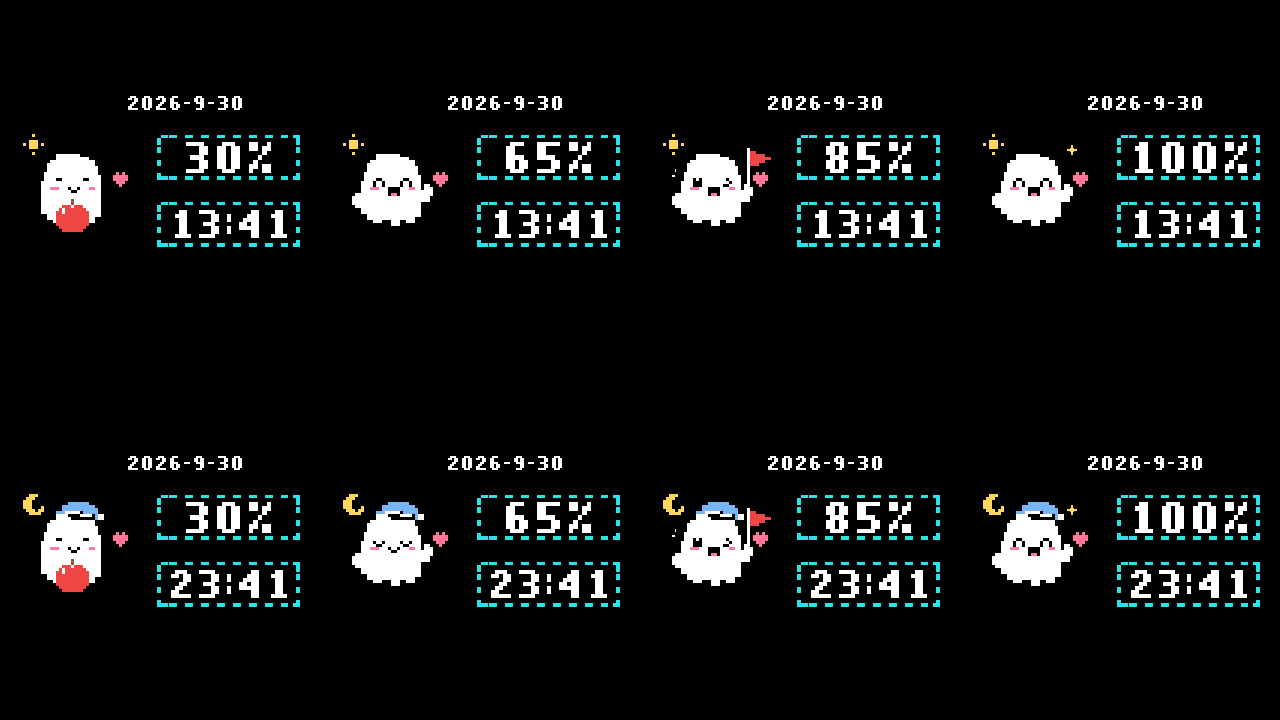
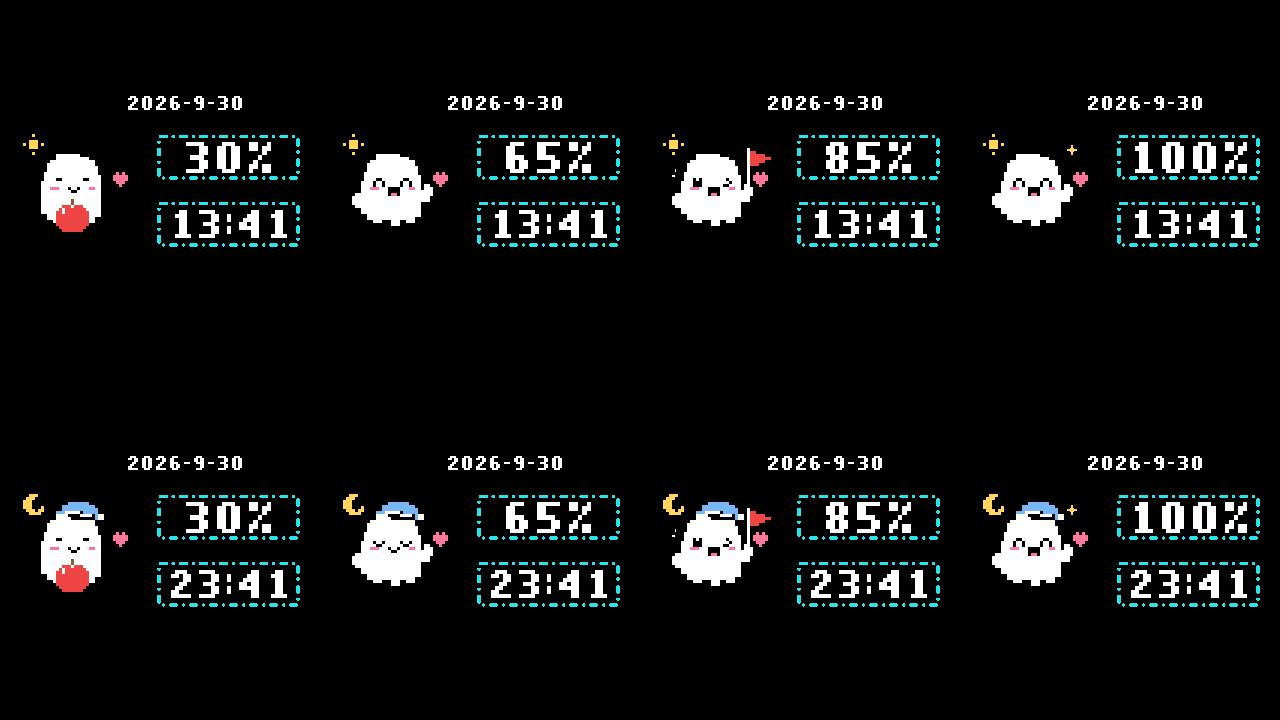
Add flowing cyan dash-dot frames and verify native r11

diff --git a/index.html b/index.html
@@ -28,16 +28,44 @@ function textPixels(text,box,unit){
  let x=box.x+(box.w-width)/2,y=box.y+(box.h-unit*7)/2,out='';
  for(const ch of text){font[ch].forEach((row,dy)=>[...row].forEach((p,dx)=>{if(p==='1')out+=rect(x+dx*unit,y+dy*unit,unit,unit);}));x+=(font[ch][0].length+2)*unit;}return out;
 }
-function pixelFrame(b){
- const t=14,c=color.cyan;let s='';
- // Thick square pixel dashes; no smooth outlines or lighting effects.
- for(const [x,y,sx,sy]of[[b.x,b.y,1,1],[b.x+b.w-t,b.y,-1,1],[b.x,b.y+b.h-t,1,-1],[b.x+b.w-t,b.y+b.h-t,-1,-1]])s+=rect(x+sx*t,y,t*2,t,c)+rect(x,y+sy*t,t,t*2,c);
- for(let x=b.x+48;x<b.x+b.w-48;x+=64){const w=Math.min(32,b.x+b.w-48-x);s+=rect(x,b.y,w,t,c)+rect(x,b.y+b.h-t,w,t,c);}
- for(let y=b.y+48;y<b.y+b.h-48;y+=52){const h=Math.min(26,b.y+b.h-48-y);s+=rect(b.x,y,t,h,c)+rect(b.x+b.w-t,y,t,h,c);}return s;
+function pixelFrame(b,seconds=0,reduced=false){
+ const grid=2,radius=7,width=b.w-radius*2,height=b.h-radius*2,length=2*(width+height);
+ const cycle=length/grid,phase=reduced?0:((Math.floor(seconds*10)%cycle)+cycle)%cycle;
+ const count=Math.round(length/80),period=length/count,rows=new Map();
+ // Dash + dot travel clockwise on one closed perimeter. Rasterized caps keep
+ // the reference's softer shape on an explicit pixel grid, including corners.
+ function point(distance){
+  let d=((distance%length)+length)%length,x=b.x+radius,y=b.y+radius;
+  if(d<width)return[x+d,y];d-=width;
+  if(d<height)return[x+width,y+d];d-=height;
+  if(d<width)return[x+width-d,y+height];d-=width;
+  return[x,y+height-d];
+ }
+ function stamp(distance){
+  const [cx,cy]=point(distance);
+  const minX=Math.max(0,Math.floor((cx-radius-b.x)/grid)),maxX=Math.min(b.w/grid-1,Math.floor((cx+radius-b.x)/grid));
+  const minY=Math.max(0,Math.floor((cy-radius-b.y)/grid)),maxY=Math.min(b.h/grid-1,Math.floor((cy+radius-b.y)/grid));
+  for(let j=minY;j<=maxY;j++)for(let i=minX;i<=maxX;i++){
+   if((b.x+i*grid+grid/2-cx)**2+(b.y+j*grid+grid/2-cy)**2>radius**2)continue;
+   if(!rows.has(j))rows.set(j,new Set());rows.get(j).add(i);
+  }
+ }
+ for(let i=0;i<count;i++){
+  const start=i*period+phase*grid;
+  for(let d=radius;d<=36-radius;d+=grid)stamp(start+d);
+  stamp(start+57);
+ }
+ let s=`<g data-component="frame" data-pattern="dash-dot" data-phase="${phase}">`;
+ for(const [j,cells]of [...rows].sort((a,b)=>a[0]-b[0])){
+  const columns=[...cells].sort((a,b)=>a-b);let start=columns[0],end=start;
+  for(const i of columns.slice(1)){if(i===end+1){end=i;continue;}s+=rect(b.x+start*grid,b.y+j*grid,(end-start+1)*grid,grid,color.cyan);start=end=i;}
+  s+=rect(b.x+start*grid,b.y+j*grid,(end-start+1)*grid,grid,color.cyan);
+ }
+ return s+'</g>';
 }
 function dateComponent(date){return `<g data-component="date">${textPixels(date,layout.date,8)}</g>`;}
-function percentComponent(progress){return `<g data-component="percent">${pixelFrame(layout.percent)}${textPixels(`${progress===null?'--':progress}%`,layout.percent,18)}</g>`;}
-function timeComponent(time){return `<g data-component="time">${pixelFrame(layout.time)}${textPixels(time,layout.time,16)}</g>`;}
+function percentComponent(progress,seconds=0,reduced=false){return `<g data-component="percent">${pixelFrame(layout.percent,seconds,reduced)}<g data-component="digits">${textPixels(`${progress===null?'--':progress}%`,layout.percent,18)}</g></g>`;}
+function timeComponent(time,seconds=0,reduced=false){return `<g data-component="time">${pixelFrame(layout.time,seconds,reduced)}<g data-component="digits">${textPixels(time,layout.time,16)}</g></g>`;}
 function progressState(p){return p===100?'celebrating':p>=80?'flag':p>=50?'floating':'apple';}
 function timeState(time){const h=Number(time.slice(0,2));return h>=20||h<7?'night':'day';}
 function heart(x,y,seconds=0,reduced=false){
@@ -106,7 +134,7 @@ function normalizeState(next,base=state){
 function resolveState(input,now){return{progress:input.progress,date:input.date??`${now.getFullYear()}-${now.getMonth()+1}-${now.getDate()}`,time:input.time??`${String(now.getHours()).padStart(2,'0')}:${String(now.getMinutes()).padStart(2,'0')}`};}
 function renderTerminal(input,seconds=0,reduced=false,now=new Date()){
  const s=resolveState(normalizeState(input),now);
- return rect(0,0,1280,720,color.background)+dateComponent(s.date)+ghostComponent(s.progress,s.time,seconds,reduced)+daylightComponent(s.time,seconds,reduced)+percentComponent(s.progress)+timeComponent(s.time);
+ return rect(0,0,1280,720,color.background)+dateComponent(s.date)+ghostComponent(s.progress,s.time,seconds,reduced)+daylightComponent(s.time,seconds,reduced)+percentComponent(s.progress,seconds,reduced)+timeComponent(s.time,seconds,reduced);
 }
 // One local adapter seam; no credentials, network requests or quota inference.
 window.pixelTerminal={setState(next){const accepted=normalizeState(next);Object.assign(state,accepted);},getState(){return{...state};},progressState,timeState,render:renderTerminal};

diff --git a/native/PixelTerminal.swift b/native/PixelTerminal.swift
@@ -2,7 +2,7 @@ import AppKit
 import WebKit
 import CryptoKit
 
-let buildID = "2026-10-02-native-r10"
+let buildID = "2026-10-02-native-r11"
 func sha256(_ url: URL) -> String { ((try? Data(contentsOf: url)).map { SHA256.hash(data: $0).map { String(format: "%02x", $0) }.joined() }) ?? "unavailable" }
 final class CompanionWindow: NSWindow { override var canBecomeKey: Bool { true }; override var canBecomeMain: Bool { true } }
 

diff --git a/README.md b/README.md
@@ -2,7 +2,7 @@
 
 **A quiet pixel companion for your Mac — a tiny ghost, your Codex quota, and the time.**
 
-Black background. Crisp pixels. A fat red apple, a softly beating pink heart, and a little sun with rotating rays. Made to sit quietly on a small desk display.
+Black background. Crisp pixels. A fat red apple, a softly beating pink heart, and a little sun with rotating rays. Thick cyan dash-dot frames drift quietly clockwise around the numbers. Made to sit quietly on a small desk display.
 
 ![Codex Ghost animated demo](docs/demo.gif)
 
@@ -13,6 +13,7 @@ Black background. Crisp pixels. A fat red apple, a softly beating pink heart, an
 - Shows **Codex weekly remaining quota**, local date, and local time. The percentage is `100 − usedPercent`, rounded down; it is **not task progress**.
 - The ghost hugs an apple below 50%, floats at 50–79%, carries a red flag at 80–99%, and waves with a star at 100%.
 - Day and night have separate expressions/accessories. The apple pose alternates between smiling and a little kiss; the heart gently beats. The night moon stays still.
+- Both cyan frames move together around a closed pixel perimeter. The numbers remain stationary; reduced motion also freezes the frames.
 - Uses native **AppKit + WKWebView** with bundled SVG. No Electron, Python, Node, or local web server is needed **to run the built app**.
 - Reads quota through the locally installed official Codex CLI and its existing login. No model prompts or conversations are sent by this app. Authentication stays with the official CLI.
 - Single instance, 60-second refresh, and an explicit unknown `--%` state. A recent successful value is kept for at most 120 seconds, never past its quota reset time.
@@ -71,10 +72,11 @@ This is an independent community project, not an official OpenAI application.
 
 ## 中文
 
-**在小屏幕上安静陪伴你的 Codex 小幽灵。** 黑底、白色像素、青色虚线框，只显示日期、每周剩余额度和时间。
+**在小屏幕上安静陪伴你的 Codex 小幽灵。** 黑底、白色像素、青色长线段与圆点边框，只显示日期、每周剩余额度和时间。
 
 - 低于50%抱胖红苹果；50–79%轻轻漂浮；80–99%举红旗；100%挥手和星星。
 - 苹果没有绿叶、特意画出的小手或热气；微笑和撅嘴交替。粉心轻轻跳动，太阳四条光线沿像素格转圈。
+- 两个较粗的青色边框同步顺时针流动，转角连续绕行，框内数字不动；开启减少动态效果时全部静止。
 - 本机编译成真正的 Mac App，运行无需终端或 Node/Python；真实额度依赖已登录的官方 Codex CLI与联网状态。
 - `bash build-app.sh` 构建后，从 Finder 双击 `build` 中的 **Codex 小幽灵.app**。⌘R刷新、⌘F全屏、⌘Q退出。
 - 百分比代表**每周剩余额度**，不是任务完成率。无法读取时显示 `--%`。顶部演示动画是合成示例，不是个人账号数据。

diff --git a/docs/VERIFICATION.md b/docs/VERIFICATION.md
@@ -1,5 +1,35 @@
 # Verification
 
+## Current r11 — flowing frame, 2026-10-02
+
+Build `2026-10-02-native-r11` uses cyan dash-dot frames moving clockwise on
+an explicit 2px grid. The native build was installed and launched by a real
+Finder double-click on Apple Silicon / macOS 26.7. The bundled interface and
+executable match this source build; native full screen on Wokyis, one process,
+the held instance lock and return to live quota were observed.
+
+- Actual renderer/frame callback tests pass: both frame components receive the
+  animation time, the closed-loop cycle repeats, cells stay inside each box and
+  outside the number area, and fixed date/time/quota pixels do not move.
+- All eight ghost states and existing positive/negative input checks still pass.
+- Reduced motion freezes the complete renderer, including both frames.
+- The generated synthetic GIF has 56 frames over 5.6 seconds. Actual cyan pixel
+  changes were checked independently in both boxes; both digit interiors stayed
+  identical across all frames. A static render was visually inspected.
+- Native WKWebView observation completed at 2026-10-02T10:11:20Z. Three actual
+  native snapshots per day/night state: both cyan frames moved in 8/8 states;
+  both digit interiors stayed unchanged in 8/8. Ghost and heart changed in 8/8,
+  daytime sun changed in 4/4 and nighttime moon stayed unchanged in 4/4.
+- All eight state readbacks matched. The installed app returned to live quota
+  after the synthetic check. No local account logs or observations are uploaded.
+- The prior build was normally quit and its lock release checked before
+  installation. Obsolete expanded r10 app copies were removed after a scoped
+  recovery archive was extracted, permissions restored and signature verified.
+  This r11 change leaves the quota reader and account settings unchanged.
+
+The observations below belong to the prior r10 implementation. They are retained
+as history and do not substitute for new r11 device tests.
+
 Observed on 2026-10-02. Public source is based on the working `2026-10-02-native-r10` implementation.
 
 ## Real native device observations
